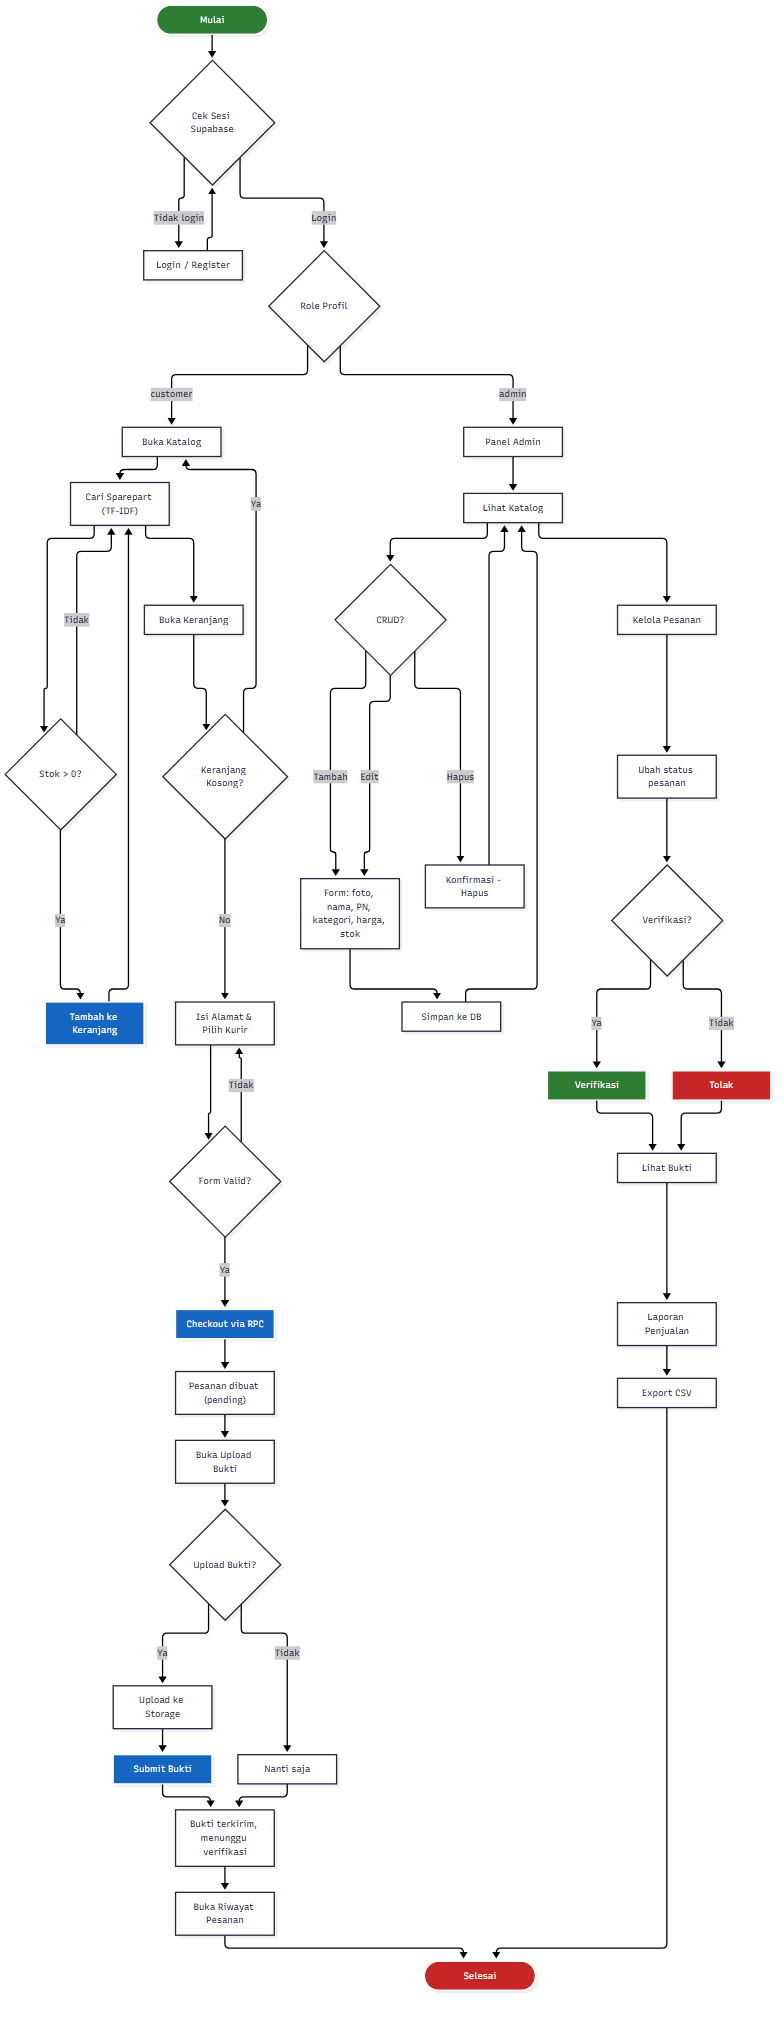
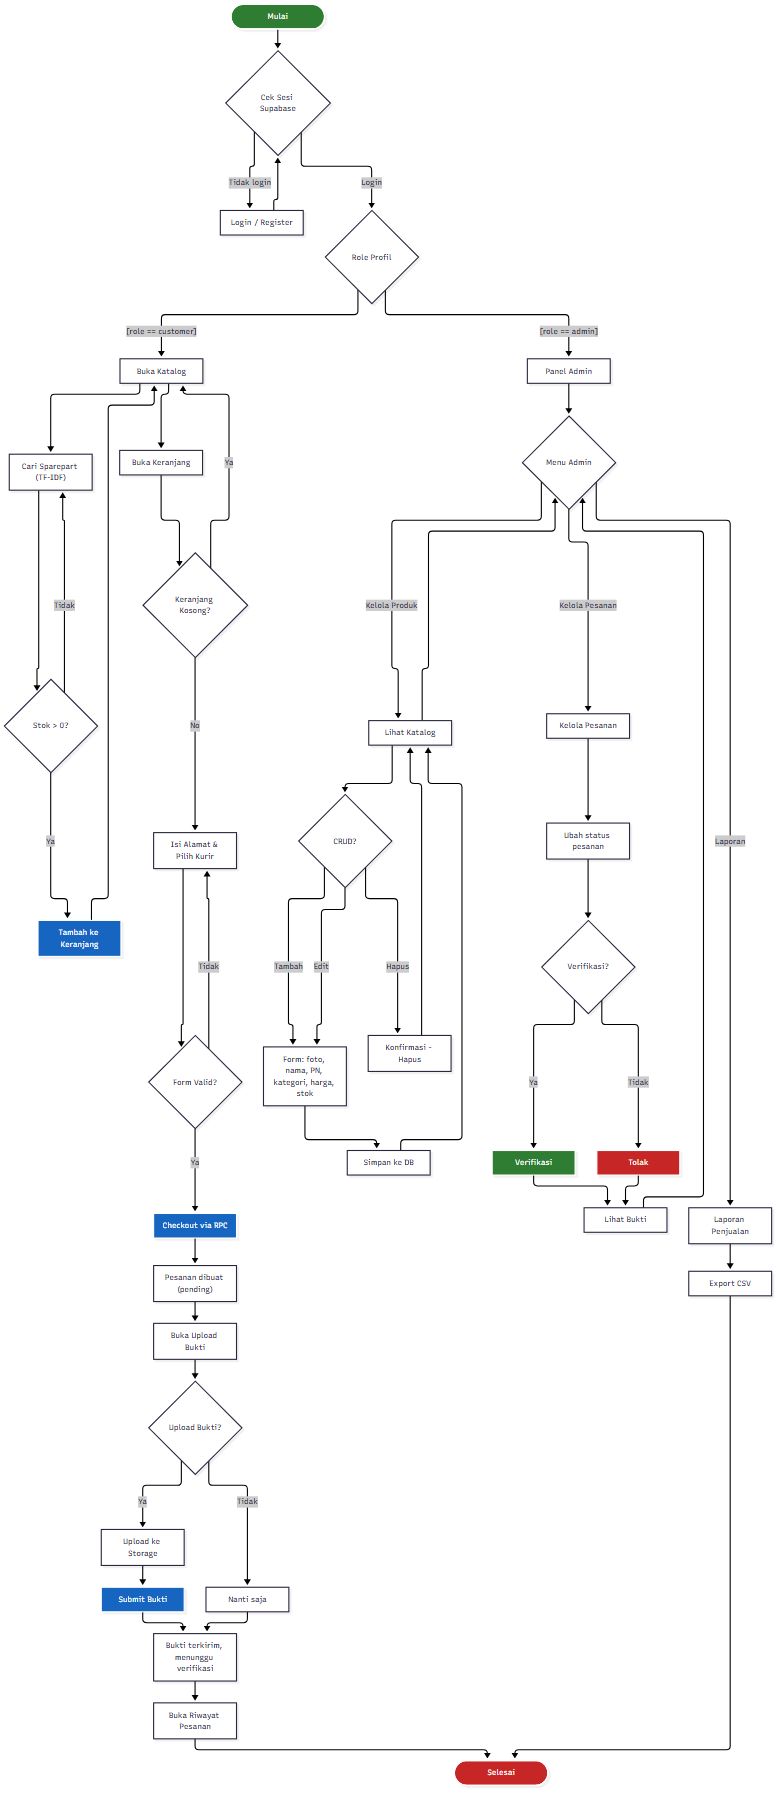
major fix update

diff --git a/README.md b/README.md
@@ -80,6 +80,42 @@ Lihat detail: [`docs/arsitektur/architecture-design.md`](docs/arsitektur/archite
 
 ---
 
+## Supabase sebagai Backend-as-a-Service (BaaS)
+
+### Mengapa Supabase (bukan Laravel / backend custom)?
+
+Supabase adalah **Backend-as-a-Service (BaaS)** berbasis open-source yang menyediakan seluruh infrastruktur backend dalam satu platform. Untuk project ini, Supabase dipilih karena:
+
+| Kriteria | Supabase (Pilihan Saat Ini) |
+|---|---|
+| **Kecepatan Pengembangan** | Sangat cepat — Auth, Realtime, Storage built-in |
+| **Logika Bisnis** | RPC function (`checkout_cart`) + Service class (`PaymentUploadService`) di client |
+| **Realtime** | Bawaan (WebSocket) — live sync cart & orders |
+| **Keamanan** | RLS (Row Level Security) di database level |
+| **Storage** | Bucket built-in (part-images, payment-proofs) |
+| **Autentikasi** | Supabase Auth (email/password, username via metadata) |
+
+### Komponen Supabase yang Digunakan
+
+| Komponen | Fungsi di Project | Contoh Penggunaan |
+|---|---|---|
+| **Auth** | Login/register, session management, username→email resolve | `get_email_by_username` RPC |
+| **Postgres** | Database relasional: `parts`, `profiles`, `cart_items`, `orders`, `order_items`, `shipping_options` | CRUD sparepart, checkout, laporan |
+| **RLS** | Keamanan per-row: customer hanya lihat data miliknya, admin full CRUD | Policy `Only full admin can insert parts` |
+| **Realtime** | Live sync keranjang & status pesanan antar device | `supabase_realtime` channel (cart_items, parts, orders) |
+| **Storage** | Upload & signed URL: foto produk & bukti transfer | Bucket `part-images`, `payment-proofs` (private, signed URL 5 menit) |
+| **RPC** | Logika bisnis atomik di server (transaction) | `checkout_cart` (INSERT order + order_items, UPDATE stock, DELETE cart), `submit_payment_proof` |
+
+### Argumen Feasibility
+
+1. **Logika bisnis tidak di client Flutter** — RPC `checkout_cart` dijalankan di server database (PostgreSQL), atomic: INSERT order → INSERT order_items → UPDATE stock → DELETE cart_items. Jika satu gagal, seluruh transaksi rollback.
+2. **Service-oriented pattern** — `PaymentUploadService` menangani upload bukti transfer dan generate signed URL. Storage provider bisa diganti (AWS S3, Laravel Storage) tanpa mengubah logika bisnis utama.
+3. **Keamanan di database level** — RLS menjamin data isolation per-role, bukan hanya di UI. Customer tidak bisa baca/tulis data orang lain meskipun API dipanggil langsung.
+4. **Realtime built-in** — WebSocket native dari Supabase, tidak perlu setup Pusher/Laravel Reverb. Live sync cart antar device < 3 detik.
+5. **Hybrid approach (jika dosen tidak setuju)** — Bisa gunakan PostgreSQL (Supabase DB) + Laravel API (framework). Database tetap sama, logika routing/auth middleware diatur Laravel. Ini jalan tengah yang menggabungkan kecepatan Flutter dengan fleksibilitas Laravel.
+
+---
+
 ## Cara Menjalankan
 
 1. Install Flutter SDK & NDK Android

diff --git a/docs/presentasi/progress-presentation.md b/docs/presentasi/progress-presentation.md
@@ -54,6 +54,38 @@ Customer → Flutter App → Supabase (Auth, Postgres, Realtime, Storage) → Ba
 
 ---
 
+## Slide 3b: Mengapa Supabase (bukan Laravel)?
+
+### Argumen Feasibility (untuk meredam kekhawatiran dosen):
+
+1. **Logika bisnis di server (RPC checkout_cart)** — bukan sekadar INSERT dari client. RPC menjalankan INSERT orders → INSERT order_items → UPDATE stock → DELETE cart dalam satu transaksi atomik. Jika satu gagal, seluruh transaksi rollback. Ini setara dengan Controller/Service di Laravel.
+
+2. **Service-oriented pattern (PaymentUploadService)** — khusus menangani upload bukti + generate signed URL. Storage provider bisa diganti (AWS S3, Laravel Storage) tanpa ubah logika bisnis utama. Prinsip Separation of Concerns.
+
+3. **Keamanan di database level (RLS)** — Row Level Security menjamin data isolation per-role langsung di Postgres, bukan hanya middleware di aplikasi. Customer tidak bisa baca data orang lain meskipun API dipanggil langsung.
+
+4. **Realtime built-in** — WebSocket native, live sync cart & orders < 3 detik. Tidak perlu setup Pusher/Laravel Reverb.
+
+5. **Hybrid approach (jika dosen tidak setuju)** — Bisa gunakan PostgreSQL (Supabase DB) + Laravel API. Database tetap sama, logika routing/auth middleware diatur Laravel. Jalan tengah yang menggabungkan kecepatan Flutter dengan fleksibilitas Laravel.
+
+### Tabel Perbandingan:
+
+| Kriteria | Supabase |
+|---|---|
+| Kecepatan dev | Sangat cepat (Auth, Realtime, Storage built-in) |
+| Logika bisnis | RPC database / Service class |
+| Realtime | Bawaan (WebSocket, live sync < 3 detik) |
+| Keamanan | RLS di database level |
+| Storage | Bucket built-in (part-images, payment-proofs) |
+| Autentikasi | Supabase Auth (email/password, username) |
+
+### Bukti dari Diagram:
+- **Sequence Diagram** → `checkout_cart` (RPC) + `PaymentUploadService` (service layer)
+- **Use Case Diagram** → Verifikasi pembayaran, CRUD, RLS per-role
+- **Activity Diagram** → Alur admin & customer terpisah
+
+---
+
 ## Slide 4: Diagram
 
 | Jenis | Berkas | Keterangan |

diff --git a/docs/diagram/activity-diagram.md b/docs/diagram/activity-diagram.md
@@ -10,16 +10,16 @@ flowchart TD
     Login --> A1
 
     A1 -- Login --> RoleCheck{Role Profil}
-    RoleCheck -- customer --> Catalog[ Buka Katalog ]
-    RoleCheck -- admin --> Admin[Panel Admin]
+    RoleCheck -- "[role == customer]" --> Catalog[ Buka Katalog ]
+    RoleCheck -- "[role == admin]" --> Admin[Panel Admin]
 
     %% Customer flow
     Catalog --> Search["Cari Sparepart (TF-IDF)"]
     Search --> Add{Stok > 0?}
     Add -- Ya --> AddCart[Tambah ke Keranjang]
     Add -- Tidak --> Search
-    AddCart --> Search
-    Search --> CartOpen[Buka Keranjang]
+    AddCart --> Catalog
+    Catalog --> CartOpen[Buka Keranjang]
 
     CartOpen --> CartEmpty{Keranjang Kosong?}
     CartEmpty -- Ya --> Catalog
@@ -39,7 +39,8 @@ flowchart TD
     History --> End([Selesai])
 
     %% Admin flow
-    Admin --> AdminView[Lihat Katalog]
+    Admin --> AdminMenu{Menu Admin}
+    AdminMenu -- "Kelola Produk" --> AdminView[Lihat Katalog]
     AdminView --> AdminAdd{CRUD?}
     AdminAdd -- Tambah --> AdminForm["Form: foto, nama, PN, kategori, harga, stok"]
     AdminAdd -- Edit --> AdminForm
@@ -47,14 +48,16 @@ flowchart TD
     AdminSave --> AdminView
     AdminAdd -- Hapus --> AdminDelete[Konfirmasi - Hapus]
     AdminDelete --> AdminView
-    AdminView --> AdminOrders[Kelola Pesanan]
+    AdminView --> AdminMenu
+    AdminMenu -- "Kelola Pesanan" --> AdminOrders[Kelola Pesanan]
     AdminOrders --> AdminStatus[Ubah status pesanan]
     AdminStatus --> AdminPay{Verifikasi?}
     AdminPay -- Ya --> AdminVerify[Verifikasi]
     AdminPay -- Tidak --> AdminReject[Tolak]
     AdminVerify --> AdminReport[Lihat Bukti]
     AdminReject --> AdminReport
-    AdminReport --> AdminLap[Laporan Penjualan]
+    AdminReport --> AdminMenu
+    AdminMenu -- "Laporan" --> AdminLap[Laporan Penjualan]
     AdminLap --> AdminCsv[Export CSV]
     AdminCsv --> End
 

diff --git a/docs/diagram/sequence-diagram.md b/docs/diagram/sequence-diagram.md
@@ -45,9 +45,11 @@ sequenceDiagram
     RPC-->>Pay: success
 
     Note over Pay,Realtime: 7. Notifikasi & kembali
+    Admin->>Realtime: subscribe(channel_orders)
+    Realtime-->>Admin: ok (listening)
     Pay->>Customer: Snackbar "Bukti terkirim, menunggu verifikasi"
     Pay->>App: popUntil ke katalog
-    Realtime-->>Admin: Realtime push (payment_status changed)
+    Realtime-->>Admin: notify(status_changed) — payment_status='uploaded'
     Admin->>App: Notifikasi order perlu verifikasi
 
     Note over Admin,DB: 8. Admin verifikasi (sequence terpisah)

diff --git a/docs/diagram/use-case-diagram.md b/docs/diagram/use-case-diagram.md
@@ -52,7 +52,6 @@ flowchart TD
     %% Include relationships
     UC5 -.->|include| UC4
     UC6 -.->|extends| UC7
-    UC12 -.->|include| UC2
     UC14 -.->|include| UC13
 
     %% Style
